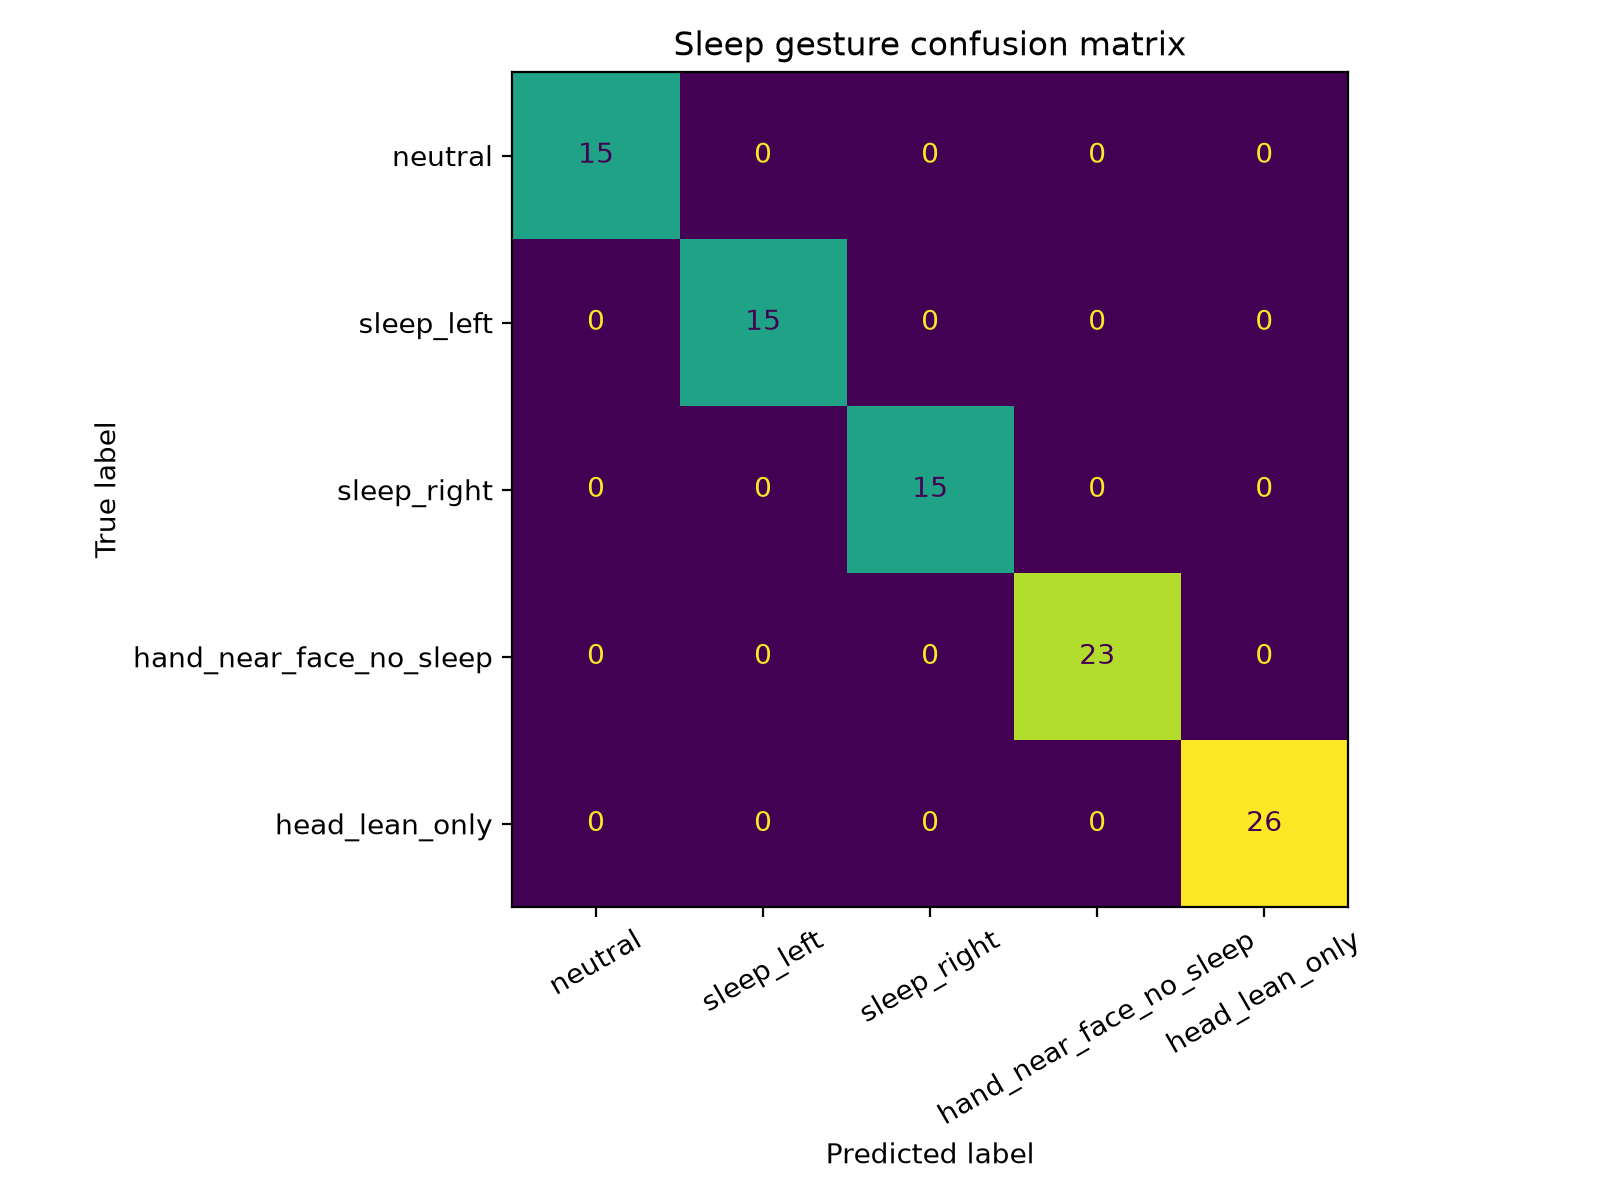
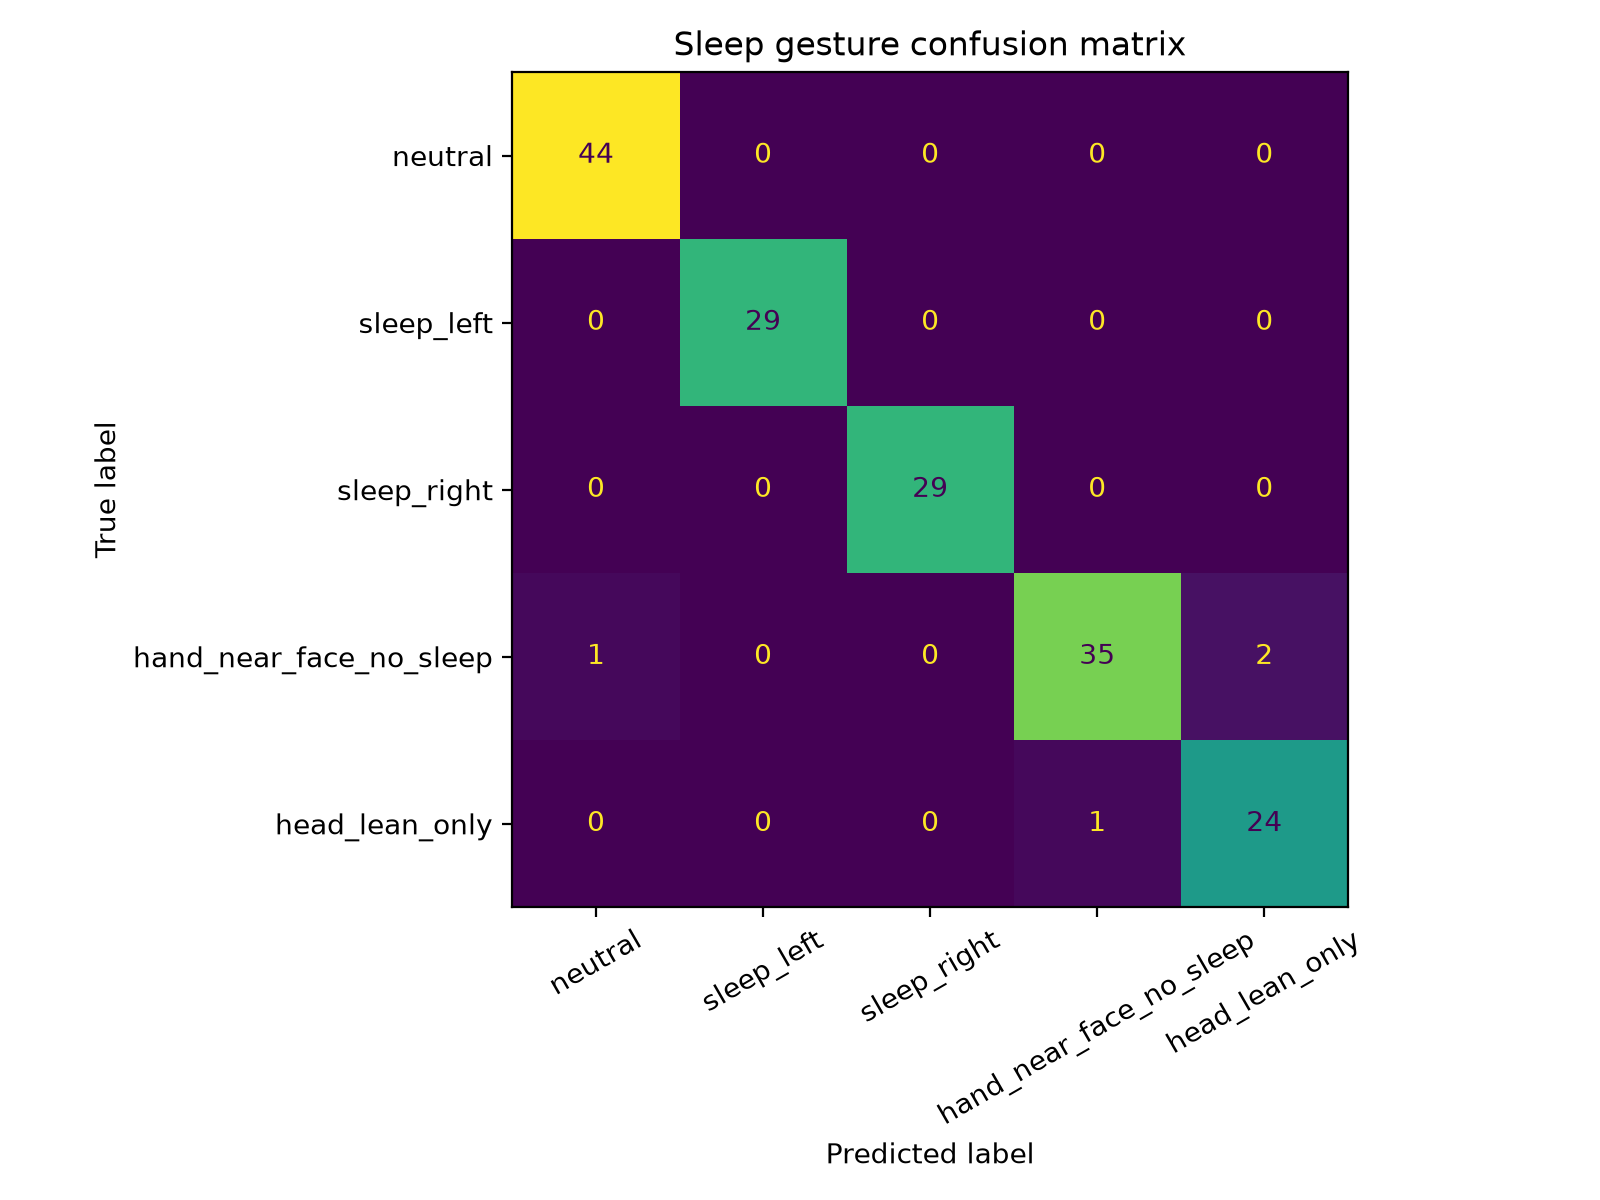
add training data + add placeholder in live detection for sending state to circuit

Changed region(s): [[0.625, 0.4625, 0.8438, 0.7708], [0.3125, 0.0617, 0.4375, 0.2158], [0.4688, 0.2467, 0.5, 0.2775]]

diff --git a/sleep-gesture-recognition/live_detection.py b/sleep-gesture-recognition/live_detection.py
@@ -227,10 +227,15 @@ def play_sound_effect():
 
     threading.Thread(target=_play, daemon=True).start()
 
+# TO-DO: edit placeholder function for sending state to circuit to change LEDs
+def send_light_command(command):
+    return
 
 def initiate_sleep_transition(prediction):
     if prediction in ["sleep_left", "sleep_right"]:
         play_sound_effect()
+        send_light_command("SLEEP") # TO-DO: define states and think about having a timer/resetting
+        # for the next user
 
 
 # main
@@ -251,7 +256,7 @@ def main() -> None:
     if not cap.isOpened():
         raise RuntimeError("Could not open webcam.")
 
-    # ssk camera for a normal resolution instead of stretching frames
+    # ask camera for a normal resolution instead of stretching frames
     cap.set(cv2.CAP_PROP_FRAME_WIDTH, CAMERA_WIDTH)
     cap.set(cv2.CAP_PROP_FRAME_HEIGHT, CAMERA_HEIGHT)
 